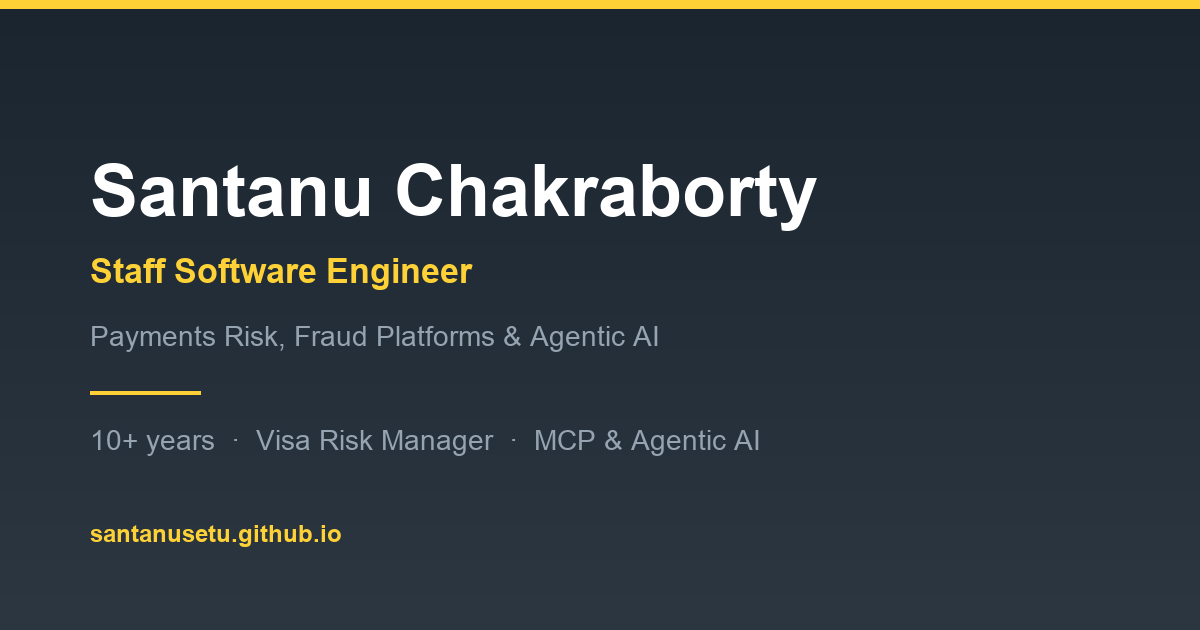
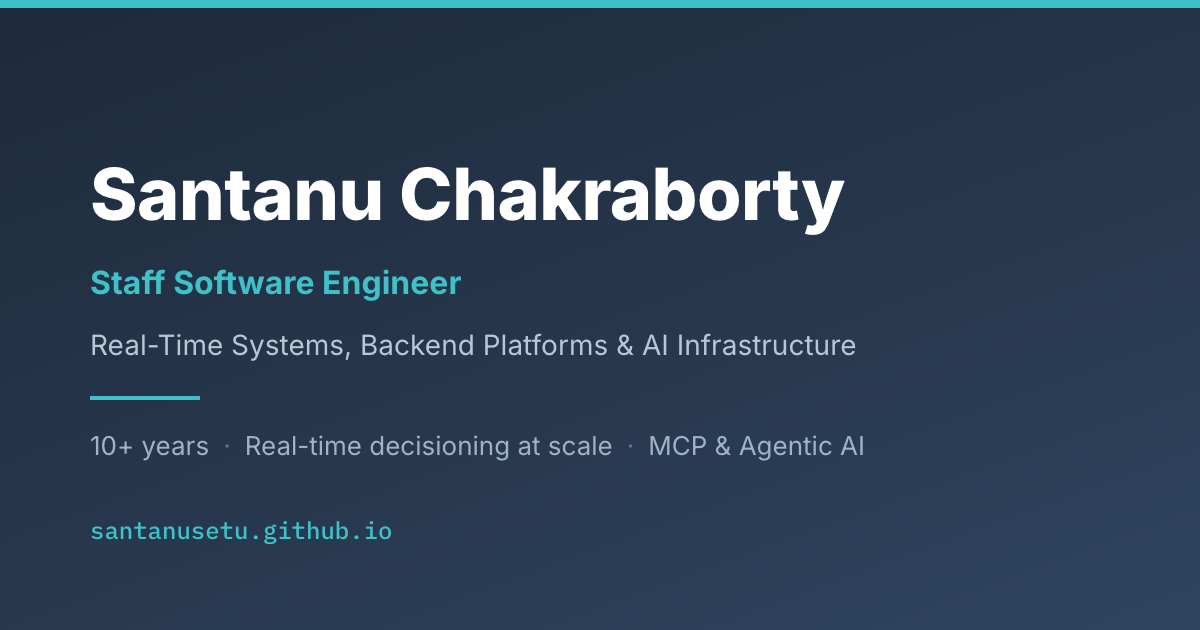
Refresh the social preview card: new tagline and the current site palette

diff --git a/index.html b/index.html
@@ -23,7 +23,7 @@
     <meta property="og:title" content="Santanu Chakraborty — Staff Software Engineer, Real-Time Systems &amp; AI Infrastructure">
     <meta property="og:description" content="Staff Software Engineer with 10+ years building real-time distributed systems, backend platforms and AI infrastructure, including a decisioning platform used by 1,000+ banks.">
     <meta property="og:image" content="https://santanusetu.github.io/img/og-card.png">
-    <meta property="og:image:alt" content="Santanu Chakraborty — Staff Software Engineer. Payments risk, fraud platforms and agentic AI.">
+    <meta property="og:image:alt" content="Santanu Chakraborty — Staff Software Engineer. Real-time systems, backend platforms and AI infrastructure.">
     
     <!-- Twitter -->
     <meta property="twitter:card" content="summary_large_image">
@@ -31,7 +31,7 @@
     <meta property="twitter:title" content="Santanu Chakraborty — Staff Software Engineer, Real-Time Systems &amp; AI Infrastructure">
     <meta property="twitter:description" content="Staff Software Engineer with 10+ years building real-time distributed systems, backend platforms and AI infrastructure, including a decisioning platform used by 1,000+ banks.">
     <meta property="twitter:image" content="https://santanusetu.github.io/img/og-card.png">
-    <meta property="twitter:image:alt" content="Santanu Chakraborty — Staff Software Engineer. Payments risk, fraud platforms and agentic AI.">
+    <meta property="twitter:image:alt" content="Santanu Chakraborty — Staff Software Engineer. Real-time systems, backend platforms and AI infrastructure.">
     
     <title>Santanu Chakraborty — Staff Software Engineer, Real-Time Systems &amp; AI Infrastructure</title>
     
